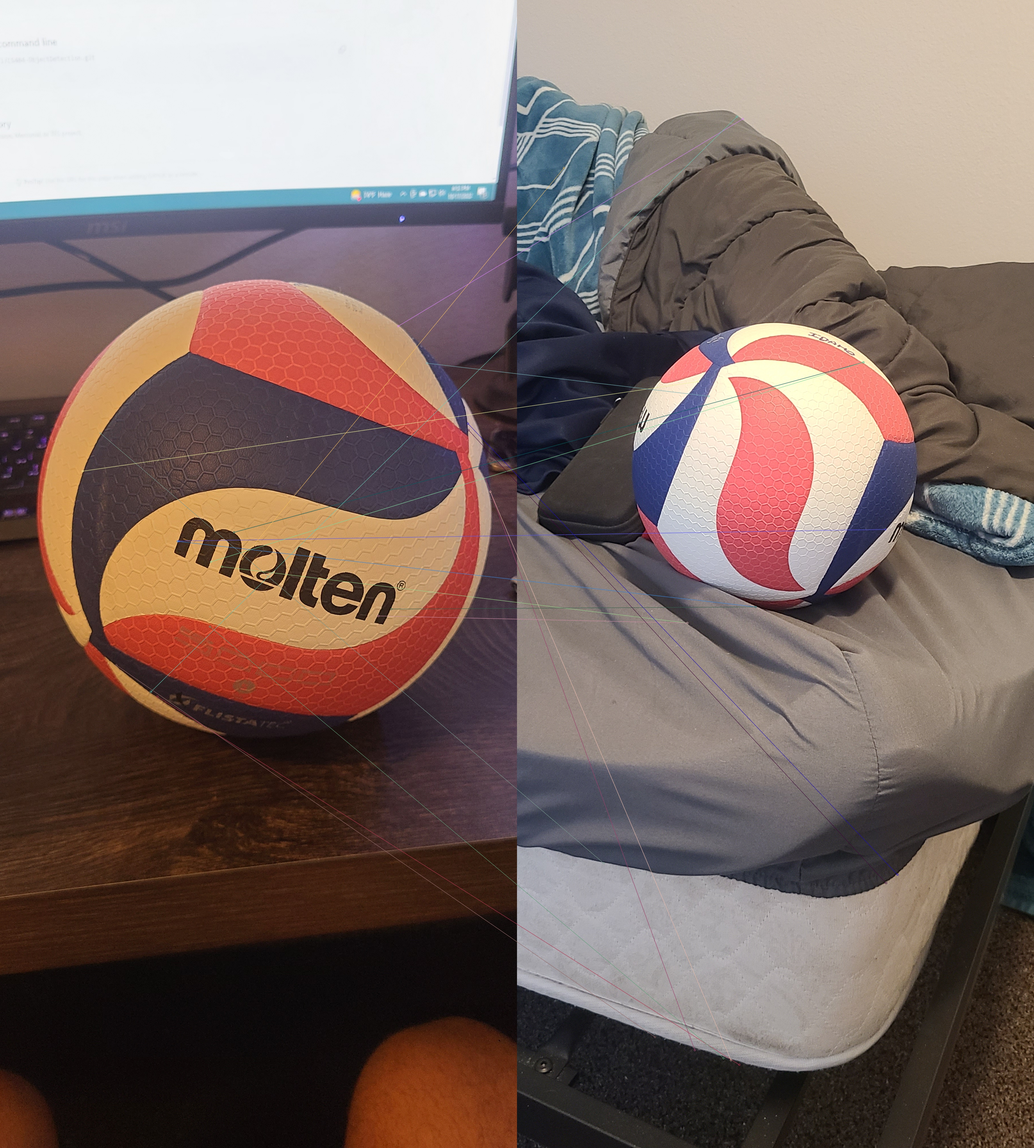
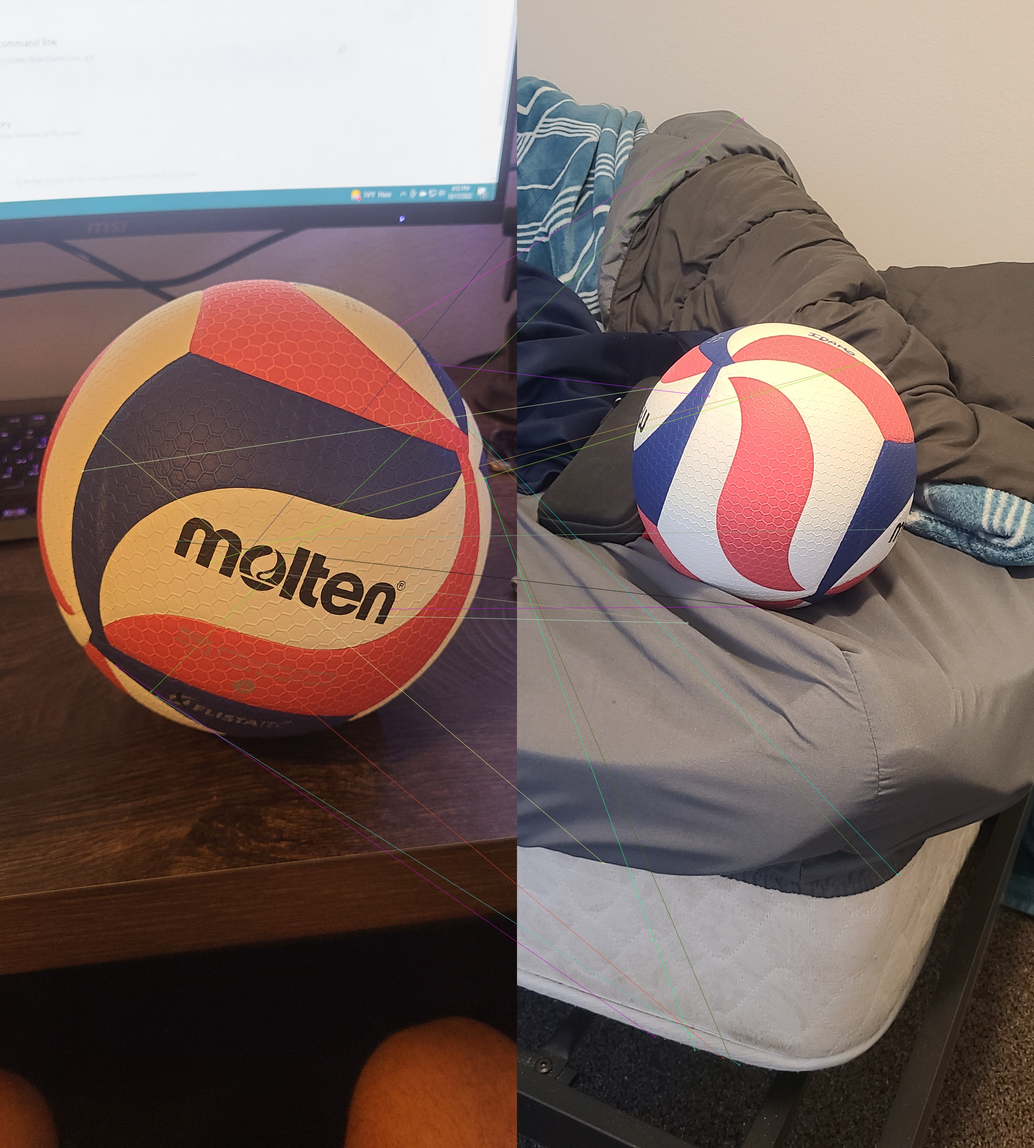
Fina commit

Changed region(s): [[0.2178, 0.4688, 0.28, 0.5], [0.4978, 0.5, 0.5289, 0.5312]]

diff --git a/object_detection.py b/object_detection.py
@@ -16,11 +16,11 @@ def main():
     img2 = cv.imread("src/ball2.jpg")
     img3 = cv.imread("src/ball3.jpg")
 
-    # SiftFlann(img1, img2, img3)
-    # BriskFlann(img1, img2, img3)
-    # OrbFlann(img1, img2, img3)
-    # SiftBF(img1, img2, img3)
-    # OrbBF(img1, img2, img3)
+    SiftFlann(img1, img2, img3)
+    BriskFlann(img1, img2, img3)
+    OrbFlann(img1, img2, img3)
+    SiftBF(img1, img2, img3)
+    OrbBF(img1, img2, img3)
     BriskBF(img1, img2, img3)
 
 
@@ -36,26 +36,26 @@ def SiftFlann(img1, img2, img3):
     knn_matches1_3 = FLANNmatcher.knnMatch(siftDescriptorsImg1, siftDescriptorsImg3, 2)
     ratio_thresh = 0.7
     
-    # Matching on images 1 and 2
+    # Descriptor matching
     good_matches1_2 = []
     for m,n in knn_matches1_2:
         if m.distance < ratio_thresh * n.distance:
             good_matches1_2.append(m)
-    
-    img_matches1_2 = np.empty((max(img1.shape[0], img2.shape[0]), img1.shape[1]+img2.shape[1], 3), dtype=np.uint8)
-    cv.drawMatches(img1, siftKeypointsImg1, img2, siftKeypointsImg2, good_matches1_2, img_matches1_2, flags=cv.DrawMatchesFlags_NOT_DRAW_SINGLE_POINTS)
-    # save matched images
-    cv.imwrite("src/FlannSift1.jpg", img_matches1_2)
 
-    # Matching on images 1 and 3
     good_matches1_3 = []
     for m,n in knn_matches1_3:
         if m.distance < ratio_thresh * n.distance:
             good_matches1_3.append(m)
 
+    img_matches1_2 = np.empty((max(img1.shape[0], img2.shape[0]), img1.shape[1]+img2.shape[1], 3), dtype=np.uint8)
     img_matches1_3 = np.empty((max(img1.shape[0], img3.shape[0]), img1.shape[1]+img3.shape[1], 3), dtype=np.uint8)
+
+    # Draw the lines.
+    cv.drawMatches(img1, siftKeypointsImg1, img2, siftKeypointsImg2, good_matches1_2, img_matches1_2, flags=cv.DrawMatchesFlags_NOT_DRAW_SINGLE_POINTS)
     cv.drawMatches(img1, siftKeypointsImg1, img3, siftKeypointsImg3, good_matches1_3, img_matches1_3, flags=cv.DrawMatchesFlags_NOT_DRAW_SINGLE_POINTS)
-    # save matched images
+    
+    # Save matched images.
+    cv.imwrite("src/FlannSift1.jpg", img_matches1_2)
     cv.imwrite("src/FlannSift2.jpg", img_matches1_3)
 
 
@@ -72,31 +72,30 @@ def BriskFlann(img1, img2, img3):
 
     FLANNmatcher = cv.DescriptorMatcher_create(cv.DescriptorMatcher_FLANNBASED)
 
-    knn_matches1_2 = FLANNmatcher.knnMatch(briskDescriptorsImg1, briskDescriptorsImg2, 2)
-    knn_matches1_3 = FLANNmatcher.knnMatch(briskDescriptorsImg1, briskDescriptorsImg3, 2)
+    matches1_2 = FLANNmatcher.knnMatch(briskDescriptorsImg1, briskDescriptorsImg2, 2)
+    matches1_3 = FLANNmatcher.knnMatch(briskDescriptorsImg1, briskDescriptorsImg3, 2)
 
-    ratio_thresh = 0.7
+    ratio_thresh = 0.8
 
-    #Matching on images 1 and 2.
+    #Descriptor matching
     good_matches1_2 = []
-    for m,n in knn_matches1_2:
+    good_matches1_3 = []
+    for m,n in matches1_2:
         if m.distance < ratio_thresh * n.distance:
             good_matches1_2.append(m)
 
-    img_matches1_2 = np.empty((max(img1.shape[0], img2.shape[0]), img1.shape[1]+img2.shape[1], 3), dtype=np.uint8)
-    cv.drawMatches(img1, briskKeypointsImg1, img2, briskKeypointsImg2, good_matches1_2, img_matches1_2, flags=cv.DrawMatchesFlags_NOT_DRAW_SINGLE_POINTS)
-    # save matched images
-    cv.imwrite("src/FlannBrisk1.jpg", img_matches1_2)
-
-    #Matching on images 1 and 3.
-    good_matches1_3 = []
-    for m,n in knn_matches1_3:
+    for m,n in matches1_3:
         if m.distance < ratio_thresh * n.distance:
             good_matches1_3.append(m)
 
+    img_matches1_2 = np.empty((max(img1.shape[0], img2.shape[0]), img1.shape[1]+img2.shape[1], 3), dtype=np.uint8)
     img_matches1_3 = np.empty((max(img1.shape[0], img3.shape[0]), img1.shape[1]+img3.shape[1], 3), dtype=np.uint8)
+
+    cv.drawMatches(img1, briskKeypointsImg1, img2, briskKeypointsImg2, good_matches1_2, img_matches1_2, flags=cv.DrawMatchesFlags_NOT_DRAW_SINGLE_POINTS)
     cv.drawMatches(img1, briskKeypointsImg1, img3, briskKeypointsImg3, good_matches1_3, img_matches1_3, flags=cv.DrawMatchesFlags_NOT_DRAW_SINGLE_POINTS)
+    
     # save matched images
+    cv.imwrite("src/FlannBrisk1.jpg", img_matches1_2)
     cv.imwrite("src/FlannBrisk2.jpg", img_matches1_3)
 
 
@@ -111,31 +110,31 @@ def OrbFlann(img1, img2, img3):
 
     FLANNmatcher = cv.DescriptorMatcher_create(cv.DescriptorMatcher_FLANNBASED)
 
-    knn_matches1_2 = FLANNmatcher.knnMatch(orbDescriptorsImg1, orbDescriptorsImg2, 2)
-    knn_matches1_3 = FLANNmatcher.knnMatch(orbDescriptorsImg1, orbDescriptorsImg3, 2)
+    matches1_2 = FLANNmatcher.knnMatch(orbDescriptorsImg1, orbDescriptorsImg2, 2)
+    matches1_3 = FLANNmatcher.knnMatch(orbDescriptorsImg1, orbDescriptorsImg3, 2)
 
-    ratio_thresh = 0.7
+    ratio_thresh = 0.9
 
     #Matching on images 1 and 2.
     good_matches1_2 = []
-    for m,n in knn_matches1_2:
+    good_matches1_3 = []
+    for m,n in matches1_2:
         if m.distance < ratio_thresh * n.distance:
             good_matches1_2.append(m)
-
-    img_matches1_2 = np.empty((max(img1.shape[0], img2.shape[0]), img1.shape[1]+img2.shape[1], 3), dtype=np.uint8)
-    cv.drawMatches(img1, orbKeypoints1, img2, orbKeypoints2, good_matches1_2, img_matches1_2, flags=cv.DrawMatchesFlags_NOT_DRAW_SINGLE_POINTS)
-    # save matched images
-    cv.imwrite("src/OrbFlann1.jpg", img_matches1_2)
-
-    #Matching on images 1 and 3.
-    good_matches1_3 = []
-    for m,n in knn_matches1_3:
+    
+    for m,n in matches1_3:
         if m.distance < ratio_thresh * n.distance:
             good_matches1_3.append(m)
 
+
+    img_matches1_2 = np.empty((max(img1.shape[0], img2.shape[0]), img1.shape[1]+img2.shape[1], 3), dtype=np.uint8)
     img_matches1_3 = np.empty((max(img1.shape[0], img3.shape[0]), img1.shape[1]+img3.shape[1], 3), dtype=np.uint8)
+
+    cv.drawMatches(img1, orbKeypoints1, img2, orbKeypoints2, good_matches1_2, img_matches1_2, flags=cv.DrawMatchesFlags_NOT_DRAW_SINGLE_POINTS)
     cv.drawMatches(img1, orbKeypoints1, img3, orbKeypoints3, good_matches1_3, img_matches1_3, flags=cv.DrawMatchesFlags_NOT_DRAW_SINGLE_POINTS)
+
     # save matched images
+    cv.imwrite("src/OrbFlann1.jpg", img_matches1_2)
     cv.imwrite("src/OrbFlann2.jpg", img_matches1_3)
 
 def SiftBF(img1, img2, img3):
